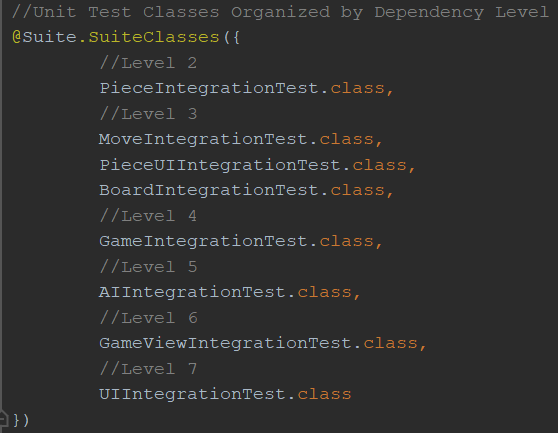
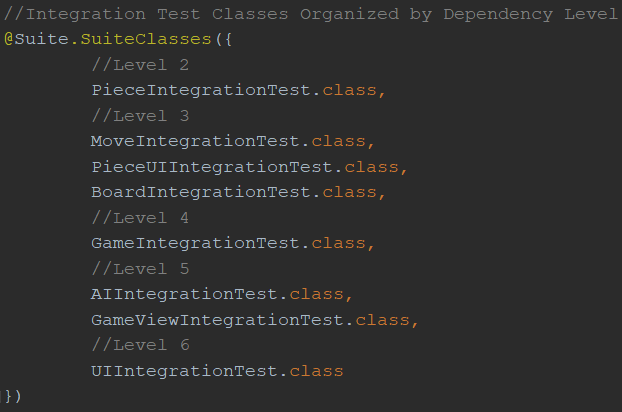
Deliverable 3 Final Commit, updated images

Changed region(s): [[0.0, 0.0, 1.0, 1.0]]

diff --git a/mobile/src/test/java/org/scoutant/blokish/model/ITSuite.java b/mobile/src/test/java/org/scoutant/blokish/model/ITSuite.java
@@ -7,7 +7,7 @@ import org.scoutant.blokish.view.UIIntegrationTest;
 
 @RunWith(Suite.class)
 
-//Unit Test Classes Organized by Dependency Level
+//Integration Test Classes Organized by Dependency Level
 @Suite.SuiteClasses({
         //Level 2
         PieceIntegrationTest.class,
@@ -19,9 +19,8 @@ import org.scoutant.blokish.view.UIIntegrationTest;
         GameIntegrationTest.class,
         //Level 5
         AIIntegrationTest.class,
-        //Level 6
         GameViewIntegrationTest.class,
-        //Level 7
+        //Level 6
         UIIntegrationTest.class
 })
 
